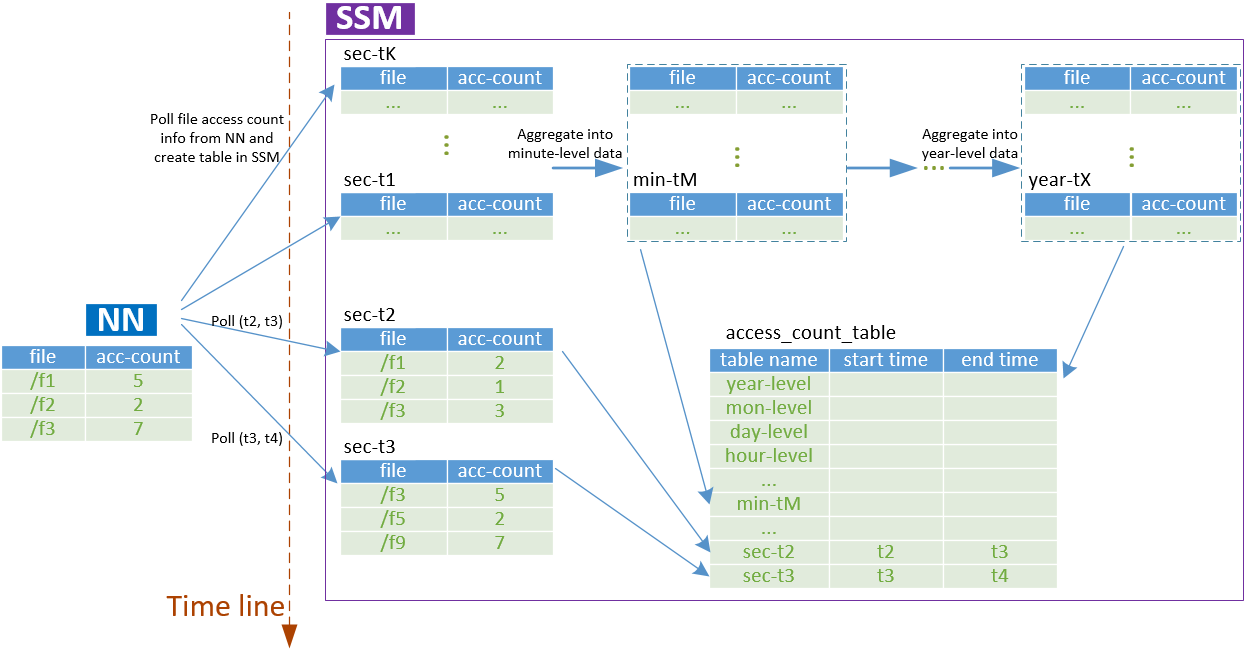
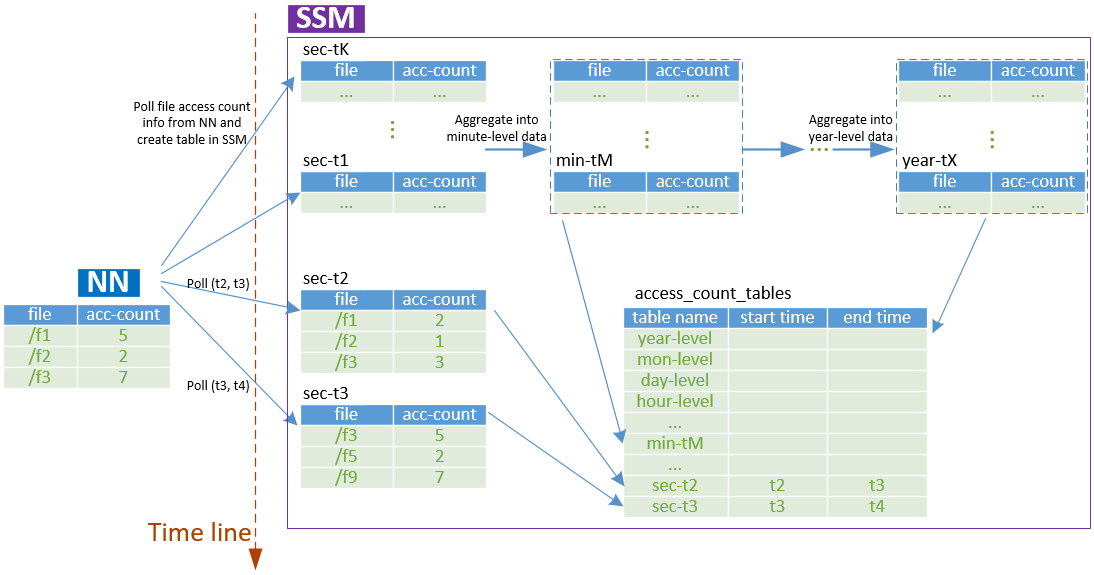
Modify README.md

diff --git a/README.md b/README.md
@@ -27,7 +27,7 @@ Use Cases
 ### Optimizations when data becoming hot
 ![](https://github.com/Intel-bigdata/SSM/blob/ssm/docs/ssm-docs/ssm-hot-cases.png)
 
-Without SSM, data will always be readed from HDD. With SSM, optimizaitons can be made through rules. As showned in the figure above, data can be moved to faster storage or cached in memory to achive better performance.
+Without SSM, data will always be readed from HDD (a.). With SSM, optimizaitons can be made through rules. As showned in the figure above, data can be moved to faster storage (b.) or cached in memory (c.) to achive better performance.
 
 ### Archive cold data
 Files are less likely to be read during the ending of lifecycle, so it’s better to move these cold files into lower performance storage to decrease the cost of data storage. The following rule shows the example of archiving data that has not been read over 3 times during the last 30 days.
@@ -84,12 +84,12 @@ SSM uses SQL database to maintain data internally. Core tables in SSM:
 ![](https://github.com/Intel-bigdata/SSM/blob/ssm/docs/ssm-docs/ssm-core-tables.png)
 
 
-Take file accessCount metric for example to demonstrate how it works. As showed in the following chart:
+Take file accessCount metric for example to demonstrate how it works. As shown in the following chart:
 
 ![](https://github.com/Intel-bigdata/SSM/blob/ssm/docs/ssm-docs/ssm-access-count-tables.png)
 
-1. SSM polls accessCount data from NN to get file access count info happened in the time interval (for example, 5s).
-2. Create a table to store the info and insert the table name into table access_count_table.
+1. SSM polls accessCount data from NN to get file access count info generated in the time interval (for example, 5s).
+2. Create a table to store the info and insert the table name into table access_count_tables.
 3. Then file access count of last time interval can be calculated by accumulating data in tables that their start time and end time falls in the interval.
 4. To control the total amount of data, second-level of accessCount tables will be aggregated into minute-level, hour-level, day-level, month-level and year-level. The longer the time from now, the larger the granularity for aggregation. More accurate data kept for near now than long ago.
 
